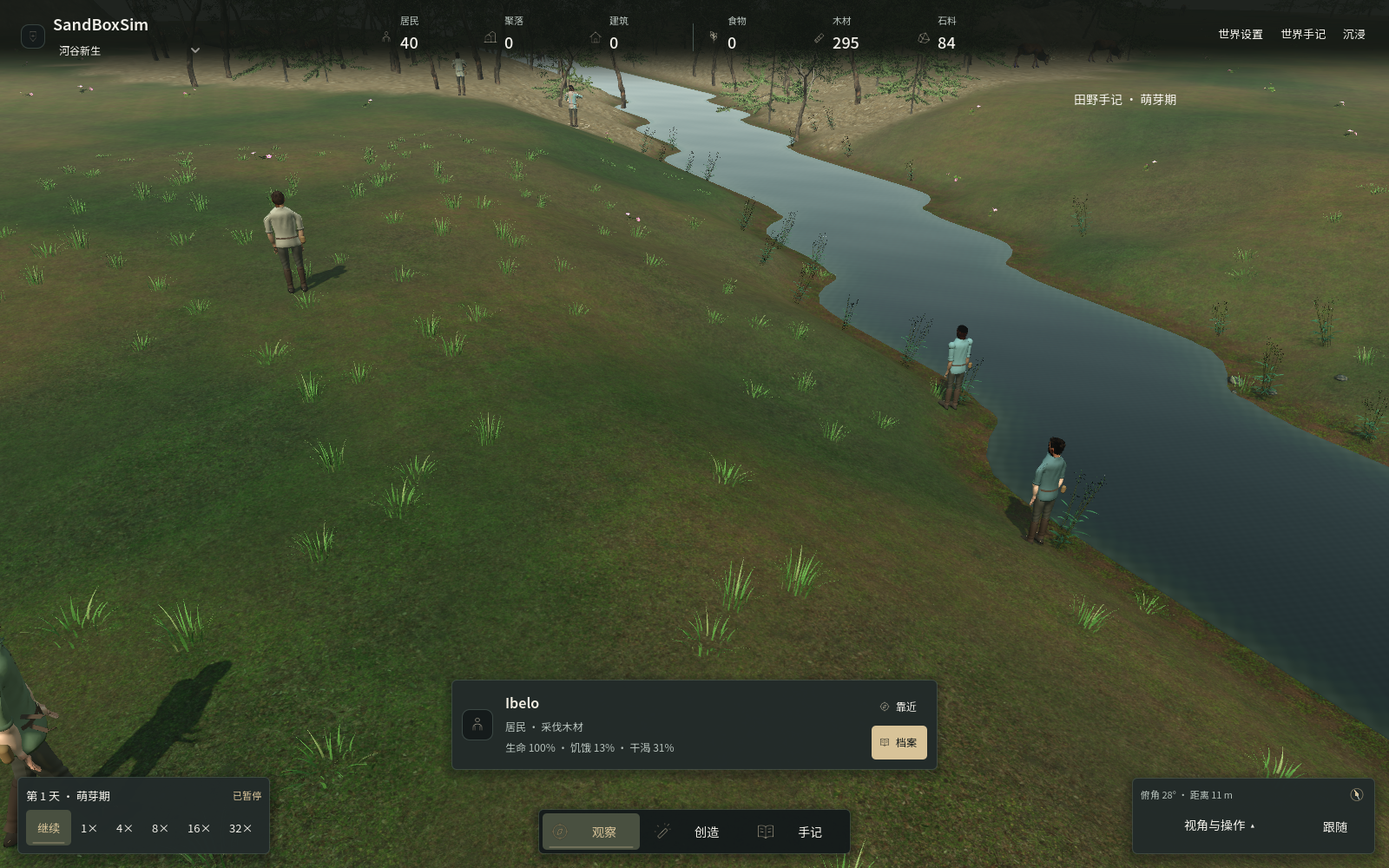
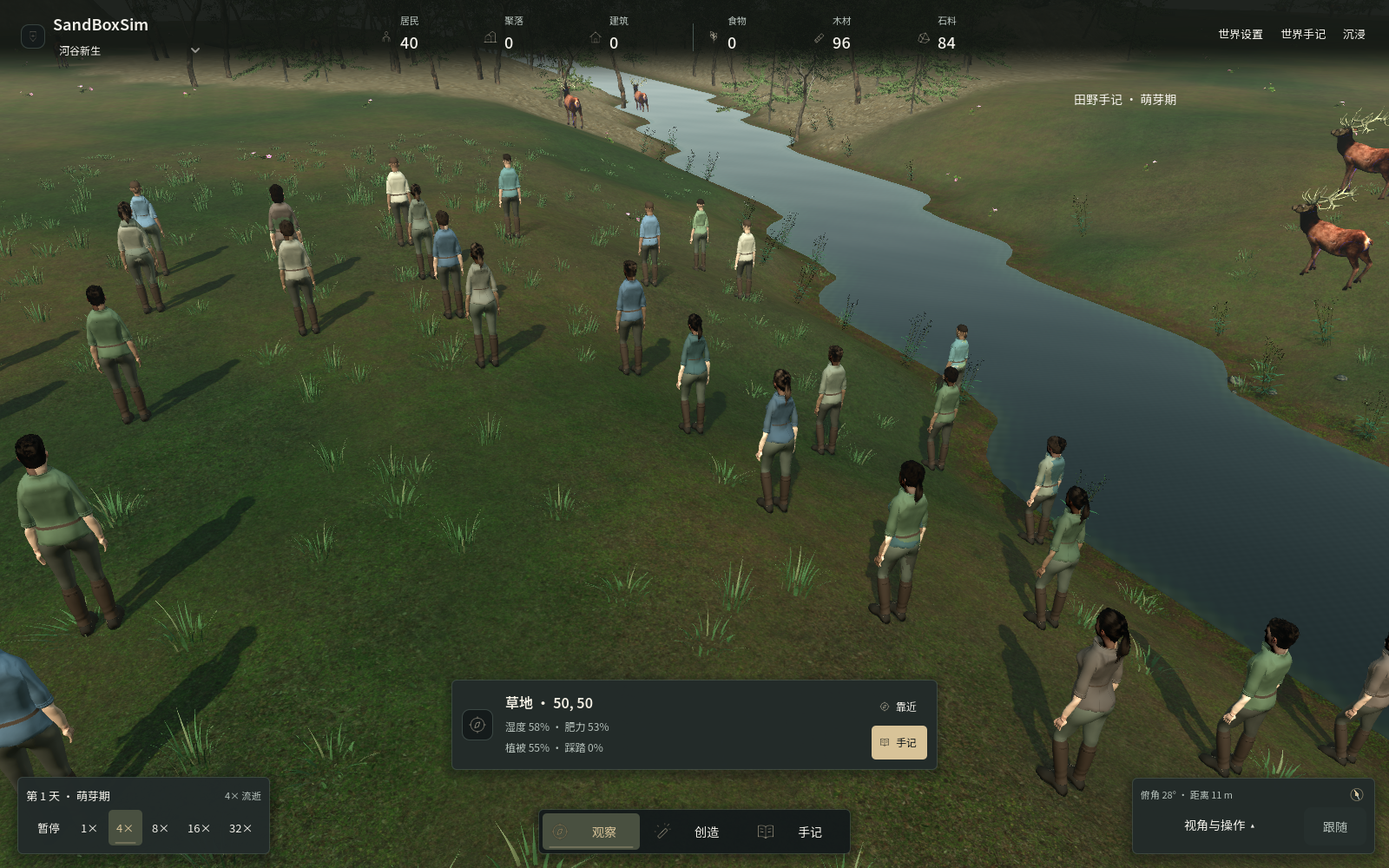
Improve understory modeling and bounded actor vegetation contacts

diff --git a/src/SandBoxSim.Godot/WorldView3D.cs b/src/SandBoxSim.Godot/WorldView3D.cs
@@ -354,6 +354,8 @@ public partial class WorldView3D : MapView
         CancelPointerGesture();
         _pickMeshes.Clear();_brushTile=new(-1,-1);_pendingTerrain=_pendingNature=_pendingBuildings=false;
         _world = Game.Sim; _follow = -1; Clear(_terrainRoot); Clear(_props); Clear(_actors);
+        _vegetationContactClock=0;_vegetationContactCount=0;Array.Clear(_vegetationContacts);
+        _models.BindMeadowContacts(_vegetationContacts,0);
         _flowerBatches.Clear();
         _observerPaths = new SandBoxSim.Core.Pathing.AStarPathfinder(Game.Sim.World);
         _observedRoute = new Int2[Game.Sim.World.Tiles.Length]; _density = new int[Game.Sim.World.Tiles.Length];
@@ -448,7 +450,7 @@ public partial class WorldView3D : MapView
         var quality=new Dictionary<string,object> { ["worldPresentationEnabled"]=WorldPresentationEnabled,["shadowMode"]=_sunlight.DirectionalShadowMode.ToString(),
             ["shadowDistance"]=_sunlight.DirectionalShadowMaxDistance,["shadowBias"]=_sunlight.ShadowBias,
             ["shadowNormalBias"]=_sunlight.ShadowNormalBias,["msaa"]=_viewport.Msaa3D.ToString(),
-            ["landscapeSurface"]="coverage-mosaic-v6",["habitatDetail"]="stratified-meadow-v10",["vegetationSurface"]="engine-faced-v2",
+            ["landscapeSurface"]="coverage-mosaic-v6",["habitatDetail"]="responsive-understory-v12",["vegetationSurface"]="engine-faced-v2",
             ["architecture"]="inset-joinery-v13",["garmentMaterial"]="quiet-linen-v17",["upperArmFlex"]="stable-contour-v3",["shoulderSkin"]="reference-figure-v25",["shoulderMotion"]="source-clavicle-v11",["motionReference"]="cmu-143-30-v1",["shoulderSurface"]="authored-bind-surface-v3",["forearmSkin"]="continuous-elbow-v9",["sleeveFairing"]="rest-detail-v2",["workPose"]="raised-hammer-v1",["reachMotion"]="palm-trajectory-v2",["interface"]="resident-framing-memory-v28",["wildFlora"]="arched-bramble-v1",["fontProfile"]="noto-packaged-v1",["interfaceVisible"]=Game.InterfaceVisible,
             ["animalPresentation"]="articulated-paws-v12",["residentSurface"]="linear-skin-v9",["workEffort"]="arc-recovery-v4",["toolMotion"]="constraint-feedback-v4",["bodySupport"]="planted-sagittal-v1",["facialTiming"]="rested-phrase-blink-v2",["handSurface"]="anatomical-regions-v1",["handlingMotion"]="wholebody-motion-v7",["toolGeometry"]="forged-heads-v2",["cargoGeometry"]="bound-timber-v2",["equipmentAttachment"]="surface-holster-v2",["socialMotion"]="spatial-gesture-v6",["waterSurface"]="constrained-bank-v6",["wristContour"]="continuous-source-v2",
             ["hairline"]="framed-source-root-v2",["garmentFit"]="continuous-drape-v31",["reedPanicle"]="connected-axis-v1",["bodyPresentation"]="continuous-drape-v29",["bodyFrame"]="reference-contour-physique-v31",["neckContour"]="relaxed-neckline-v5",["faceContour"]="balanced-adult-v3",["forearmProfile"]="curvature-flow-v9",["residentLocomotion"]="ankle-offset-v4",["armSwing"]="elliptic-countermotion-v4",["motionStyle"]="spatial-power-flow-v2",["limbCoordination"]="hinge-carry-v4" };
@@ -496,7 +498,7 @@ public partial class WorldView3D : MapView
         }
         finally {world.Tiles[index]=original;CheckTerrain();}
         if(StateHash.ComputeDigest(Game.Sim)!=digest)throw new InvalidOperationException("Ground presentation validation changed simulation");
-        ValidateMeadowPresentation();
+        ValidateMeadowPresentation();ValidateVegetationContacts();
         ValidateLogicalShoreline();
         GD.Print("GROUND_PRESENTATION_PASS: texture-only overlays, byte-precision wear and unchanged simulation");
     }
@@ -728,7 +730,7 @@ public partial class WorldView3D : MapView
                     ferns.Add(RootedPlant(new(px,0,pz),Vector3.One*scale,h%19+fern));
                 }
             int meadowMask=MeadowCandidateMask(tile,x,y,h);
-            for(int tuft=0;tuft<2;tuft++)
+            for(int tuft=0;tuft<MeadowCandidateCount;tuft++)
             {
                 if((meadowMask&(1<<tuft))==0)continue;
                 uint sample=MeadowSample(h,tuft);
@@ -736,7 +738,7 @@ public partial class WorldView3D : MapView
                 float px=p.X+((sample>>8)&255)/255f*1.60f-.80f;
                 float pz=p.Z+((sample>>16)&255)/255f*1.60f-.80f;
                 float variation=.62f+patch*.48f+((sample>>24)&255)/255f*.30f;
-                var clumpScale=tuft==0?new Vector3(size*1.12f,variation*.65f,size*1.12f):new Vector3(size*.90f,variation*1.10f,size*.90f);
+                var clumpScale=tuft%2==0?new Vector3(size*1.12f,variation*.65f,size*1.12f):new Vector3(size*.90f,variation*1.10f,size*.90f);
                 if(TryMeadowPlacement(new(px,0,pz),clumpScale,(sample%1000)*.006283185f,out var placement))grass.Add(placement);
             }
             if (tile.BuildingId==0&&tile.Terrain == TerrainKind.Forest && tile.Vegetation > .12f && tile.Fire != FireState.Burnt && h % 5 == 0)
@@ -827,7 +829,7 @@ public partial class WorldView3D : MapView
     private void AnimateActors(float delta)
     {
         using var profile=RenderProfile.Measure("AnimateActors");
-        var sim = Game.Sim; _poseFrame++;
+        var sim = Game.Sim; _poseFrame++;BeginVegetationContacts(delta);
         // Copy six planes once; enumerating the native array per resident multiplies interop calls.
         var frustum=_camera.GetFrustum().ToArray();
         var cameraPosition=_camera.Position;
@@ -839,6 +841,7 @@ public partial class WorldView3D : MapView
             bool moving = sim.Agents.PhaseOf(slot) == ActionPhase.Moving;
             var rendered=GroundedActorPosition(current,target,delta,10,Game.VisualPaused);
             if(direction.LengthSquared()>.000001f)node.Position=rendered;
+            OfferVegetationContact(rendered,.55f);
             bool visible=ActorInView(rendered+Vector3.Up*.9f,frustum);
             if(node.Visible!=visible)node.Visible=visible;
             _poseSchedule.Accumulate(pair.Key,delta,visible&&!Game.VisualPaused);
@@ -878,12 +881,14 @@ public partial class WorldView3D : MapView
         foreach (var pair in _deer)
         { int slot = (int)(pair.Key & uint.MaxValue); if (sim.Wildlife.IsAlive(slot)) { MoveAnimal(pair.Value, PositionAt(sim.Wildlife.XOf(slot), sim.Wildlife.YOf(slot)), delta,sim.Wildlife.ActionOf(slot)==ActionKind.Eat); } }
         foreach (var wolf in sim.Predators.Wolves) if (_wolves.TryGetValue(wolf.Id, out Node3D? node)) { MoveAnimal(node, PositionAt(wolf.X, wolf.Y), delta); }
+        EndVegetationContacts();
     }
     private void MoveAnimal(Node3D node, Vector3 target, float delta,bool grazing=false)
     {
-        if(Game.VisualPaused)return;
+        if(Game.VisualPaused){OfferVegetationContact(node.Position,.75f);return;}
         Vector3 direction = target - node.Position;
         var location=GroundedActorPosition(node.Position,target,delta,8,Game.VisualPaused);node.Position=location;
+        OfferVegetationContact(location,node is AnimalRig?.75f:.65f);
         if (direction.LengthSquared() > .02f) { node.Rotation = new Vector3(0, Mathf.LerpAngle(node.Rotation.Y,MathF.Atan2(direction.X, direction.Z) + MathF.PI,1-MathF.Exp(-delta*9)), 0); }
         if(_camera.Position.DistanceSquaredTo(node.Position)<24*24)
         {

diff --git a/src/SandBoxSim.Godot/WorldView3D.Meadow.cs b/src/SandBoxSim.Godot/WorldView3D.Meadow.cs
@@ -8,10 +8,11 @@ namespace SandBoxSim.Client;
 
 public partial class WorldView3D
 {
+    private const int MeadowCandidateCount=4;
     private readonly List<(MultiMeshInstance3D Batch,List<Transform3D> Roots)> _meadowBatches=new();
     private readonly Dictionary<MultiMeshInstance3D,Transform3D[]> _meadowSeeds=new();
     private Vector3[]? _meadowRootProbes;
-    private readonly Dictionary<(Vector3 Point,Vector3 Scale,float Yaw),(int Revision,bool Valid,Transform3D Placement)> _meadowPlacements=new();
+    private readonly Dictionary<(Vector3 Point,Vector3 Scale,float Yaw),(int Revision,int Blockers,bool Valid,Transform3D Placement)> _meadowPlacements=new();
     private int[] _meadowGroundRevisions=Array.Empty<int>();
     private long _meadowPlacementEvaluations;
     private void ResetMeadowPlacements()
@@ -39,7 +40,7 @@ public partial class WorldView3D
         float patch=TerrainNoise(x*.12f,y*.12f,Game.Sim.World.Seed);
         float threshold=.26f+patch*.48f+tile.Vegetation*.10f;
         int mask=0;
-        for(int candidate=0;candidate<2;candidate++)
+        for(int candidate=0;candidate<MeadowCandidateCount;candidate++)
             if((MeadowSample(hash,candidate)&255)/255f<=threshold)mask|=1<<candidate;
         return mask;
     }
@@ -56,25 +57,36 @@ public partial class WorldView3D
     {
         var world=Game.Sim.World;
         int index=Math.Clamp((int)MathF.Floor(point.Z*.5f),0,world.Height-1)*world.Width+Math.Clamp((int)MathF.Floor(point.X*.5f),0,world.Width-1);
-        int revision=_meadowGroundRevisions[index];var key=(point,scale,yaw);
-        if(_meadowPlacements.TryGetValue(key,out var cached)&&cached.Revision==revision)
+        int revision=_meadowGroundRevisions[index],blockers=0,bit=0;
+        int tx=index%world.Width,ty=index/world.Width;
+        for(int dz=-1;dz<=1;dz++)for(int dx=-1;dx<=1;dx++,bit++)
+            if(!MeadowHabitat(tx+dx,ty+dz))blockers|=1<<bit;
+        var key=(point,scale,yaw);
+        if(_meadowPlacements.TryGetValue(key,out var cached)&&cached.Revision==revision&&cached.Blockers==blockers)
         {placement=cached.Placement;return cached.Valid;}
         _meadowPlacementEvaluations++;
         placement=Transform3D.Identity;
         if(GroundNormal(point).Y<MathF.Cos(.35f)||GroundHeight(point.X,point.Z)<.03f)
-        {_meadowPlacements[key]=(revision,false,placement);return false;}
+        {_meadowPlacements[key]=(revision,blockers,false,placement);return false;}
         var rooted=RootedPlant(point,scale,yaw);
         // The terrain can curve within the footprint even on a gentle slope.
         // Reject that patch rather than leaving peripheral roots suspended.
         bool valid=MeadowRootsFit(rooted);
         if(valid)placement=rooted;
-        _meadowPlacements[key]=(revision,valid,placement);return valid;
+        _meadowPlacements[key]=(revision,blockers,valid,placement);return valid;
+    }
+    private bool MeadowHabitat(int x,int y)
+    {
+        var world=Game.Sim.World;if(!world.IsInBounds(x,y))return false;
+        var tile=world.TileAt(x,y);
+        return tile.BuildingId==0&&tile.Fire!=FireState.Burnt&&tile.Terrain is TerrainKind.Grass or TerrainKind.Forest;
     }
     private bool MeadowRootsFit(Transform3D rooted)
     {
         foreach(var probe in MeadowRootProbes())
         {
             var root=rooted*probe;float gap=root.Y-GroundHeight(root.X,root.Z);
+            if(!MeadowHabitat((int)MathF.Floor(root.X*.5f),(int)MathF.Floor(root.Z*.5f)))return false;
             if(gap>.012f||gap<-.035f)return false;
         }
         return true;
@@ -119,6 +131,18 @@ public partial class WorldView3D
             InvalidateMeadowPlacements(new HashSet<int>{tile});
             if(TryMeadowPlacement(key.Point,key.Scale,key.Yaw,out var rebuilt)!=before||rebuilt!=originalPlacement||_meadowPlacementEvaluations!=evaluations+1)
                 throw new InvalidOperationException("Meadow support invalidation reuses stale geometry");
+            var old=Game.Sim.World.Tiles[tile];string unchanged=StateHash.ComputeDigest(Game.Sim);
+            try
+            {
+                Game.Sim.World.Tiles[tile].BuildingId=int.MaxValue;
+                long prior=_meadowPlacementEvaluations;
+                if(TryMeadowPlacement(key.Point,key.Scale,key.Yaw,out _)||_meadowPlacementEvaluations!=prior+1)
+                    throw new InvalidOperationException("Occupied meadow footprint reuses its cached placement");
+            }
+            finally{Game.Sim.World.Tiles[tile]=old;}
+            if(TryMeadowPlacement(key.Point,key.Scale,key.Yaw,out var restored)!=before||restored!=originalPlacement
+                ||StateHash.ComputeDigest(Game.Sim)!=unchanged)
+                throw new InvalidOperationException("Meadow occupancy recovery changes support or simulation");
             GD.Print("MEADOW_PLACEMENT_CACHE_PASS: unchanged accepted/rejected placement reuse, neighbourhood invalidation and identical rebuilt support");
         }
         int roots=0;
@@ -146,7 +170,7 @@ public partial class WorldView3D
             var tile=world.Tiles[index];if(tile.Terrain!=TerrainKind.Grass||tile.BuildingId!=0||tile.Fire==FireState.Burnt)continue;
             int x=index%world.Width,y=index/world.Width;uint hash=unchecked((uint)(x*73856093^y*19349663));
             float patch=TerrainNoise(x*.12f,y*.12f,world.Seed);
-            for(int candidate=0;candidate<2;candidate++)
+            for(int candidate=0;candidate<MeadowCandidateCount;candidate++)
             {
                 float boundary=((MeadowSample(hash,candidate)&255)/255f-.26f-patch*.48f)/.10f;
                 if(boundary>.26f&&boundary<.89f){selected=index;lower=boundary-.01f;upper=boundary+.01f;break;}

diff --git a/src/SandBoxSim.Godot/NatureModels.MeadowTurf.cs b/src/SandBoxSim.Godot/NatureModels.MeadowTurf.cs
@@ -17,8 +17,10 @@ internal sealed partial class NatureModels
             var forward=new Vector3(MathF.Cos(angle),0,MathF.Sin(angle));
             var across=new Vector3(-forward.Z,0,forward.X);
             var root=forward*radius;
-            float height=.18f+(blade*7%17)/16f*.18f;
+            bool broad=blade%6==0;
+            float height=broad?.11f+(blade%4)*.025f:.18f+(blade*7%17)/16f*.18f;
             float bend=.045f+(blade*11%13)/12f*.14f,width=.006f+(blade%5)*.002f;
+            if(broad){width*=2.2f;bend*=.65f;}
             Vector3 Point(int row,int edge)
             {
                 float t=row/4f;
@@ -33,7 +35,7 @@ internal sealed partial class NatureModels
                 if(normal.Dot(-forward)<0){(br,cr)=(cr,br);(be,ce)=(ce,be);normal=-normal;}
                 normal=normal.Normalized();
                 float dry=blade%7==0?1f:0f;
-                var pigment=new Color(.115f,.205f,.061f).Lerp(new(.235f,.215f,.11f),dry*.65f);
+                var pigment=new Color(.090f,.145f,.065f).Lerp(new(.205f,.185f,.11f),dry*.65f);
                 foreach(var v in new[]{(ar,ae),(br,be),(cr,ce)})
                 {
                     float t=v.Item1/4f;
@@ -47,6 +49,7 @@ internal sealed partial class NatureModels
         tool.Index();var mesh=tool.Commit();
         var shader=new Shader {Code=@"shader_type spatial;render_mode cull_disabled;
 uniform bool soil_bound=false;uniform sampler2D soil:filter_nearest,repeat_disable;uniform vec2 map_size=vec2(1.0);
+uniform vec4 contact_actors[8];uniform int contact_count=0;
 varying float blade_t;
 void vertex(){
     vec3 root=(MODEL_MATRIX*vec4(0,0,0,1)).xyz;blade_t=UV.y;
@@ -54,6 +57,24 @@ void vertex(){
     float wear=soil_bound?texture(soil,clamp(root.xz*.5/map_size,vec2(0),vec2(1))).g:0.0;
     float scale=max(.025,fade*(1.0-wear*.85));
     vec2 bend=vec2(sin(TIME*.8+root.x*.21+root.z*.13)*.020,cos(TIME*.65+root.z*.19)*.010);
+    vec2 push=vec2(0);float pressure=0.0;
+    for(int i=0;i<8;i++){
+        if(i>=contact_count)break;
+        vec2 away=root.xz-contact_actors[i].xz;float d2=dot(away,away);
+        if(d2>=contact_actors[i].w*contact_actors[i].w||abs(root.y-contact_actors[i].y)>=.90)continue;
+        float d=sqrt(d2);
+        float weight=(1.0-smoothstep(0.0,contact_actors[i].w,d))
+            *(1.0-smoothstep(.25,.90,abs(root.y-contact_actors[i].y)));
+        pressure=max(pressure,weight);
+        // Regularization passes continuously through a contact centre; a fixed
+        // fallback direction would flip a pressed leaf as an actor crosses it.
+        push+=away*inversesqrt(d2+.0016)*weight;
+    }
+    float push_length=length(push);if(push_length>1.0)push/=push_length;
+    // Convert a world-space push through the actual instance yaw/scale. Roots
+    // stay pinned; this is visual leaf bending, not navigation or collision.
+    if(pressure>0.0)bend+=(inverse(mat3(MODEL_MATRIX))*vec3(push.x,0,push.y)*.16).xz;
+    scale*=1.0-pressure*.65;
     VERTEX.xz+=bend*blade_t*blade_t*fade;VERTEX.y*=scale;
     vec2 derivative=2.0*blade_t*fade/.30*bend;
     NORMAL=normalize(vec3(NORMAL.x,(NORMAL.y-dot(derivative,NORMAL.xz))/scale,NORMAL.z));
@@ -80,6 +101,18 @@ void fragment(){
     {
         MeadowTurf();_meadowTurfMaterial!.SetShaderParameter("soil_bound",true);
         _meadowTurfMaterial.SetShaderParameter("soil",soil);_meadowTurfMaterial.SetShaderParameter("map_size",size);
+    }
+    internal void BindMeadowContacts(Vector4[] actors,int count)
+    {
+        MeadowTurf();_meadowTurfMaterial!.SetShaderParameter("contact_actors",actors);
+        _meadowTurfMaterial.SetShaderParameter("contact_count",count);
+    }
+    internal void ValidateMeadowContacts(Vector4[] actors,int count)
+    {
+        var uploaded=_meadowTurfMaterial!.GetShaderParameter("contact_actors").AsVector4Array();
+        if(_meadowTurfMaterial.GetShaderParameter("contact_count").AsInt32()!=count||uploaded.Length!=8)
+            throw new InvalidOperationException("Invalid meadow contact uniform budget");
+        for(int i=0;i<8;i++)if(uploaded[i]!=actors[i])throw new InvalidOperationException("Stale meadow actor uniform");
     }
     private void ValidateMeadowTurf()
     {

diff --git a/src/SandBoxSim.Godot/WorldView3D.VegetationContacts.cs b/src/SandBoxSim.Godot/WorldView3D.VegetationContacts.cs
@@ -1,0 +1,70 @@
+using System;
+using Godot;
+using SandBoxSim.Core;
+
+namespace SandBoxSim.Client;
+
+public partial class WorldView3D
+{
+    private readonly Vector4[] _vegetationContacts=new Vector4[8];
+    private readonly float[] _vegetationDistances=new float[8];
+    private int _vegetationContactCount;
+    private float _vegetationContactClock;
+    private bool _sampleVegetationContacts;
+
+    private void BeginVegetationContacts(float delta)
+    {
+        _sampleVegetationContacts=false;
+        _vegetationContactClock-=delta;
+        if(_vegetationContactClock>0)return;
+        _vegetationContactClock=1f/60;_sampleVegetationContacts=true;_vegetationContactCount=0;
+        Array.Clear(_vegetationContacts);Array.Fill(_vegetationDistances,float.PositiveInfinity);
+    }
+    private void OfferVegetationContact(Vector3 point,float radius)
+    {
+        if(!_sampleVegetationContacts||!point.IsFinite()||radius<=0)return;
+        float distance=point.DistanceSquaredTo(_camera.Position);
+        if(distance>34*34)return;
+        int index=0;
+        while(index<_vegetationContactCount&&distance>=_vegetationDistances[index])index++;
+        if(index==8)return;
+        for(int i=Math.Min(_vegetationContactCount,7);i>index;i--)
+        {_vegetationContacts[i]=_vegetationContacts[i-1];_vegetationDistances[i]=_vegetationDistances[i-1];}
+        _vegetationContacts[index]=new(point.X,point.Y,point.Z,radius);_vegetationDistances[index]=distance;
+        _vegetationContactCount=Math.Min(8,_vegetationContactCount+1);
+    }
+    private void EndVegetationContacts()
+    {
+        if(_sampleVegetationContacts)
+            _models.BindMeadowContacts(_vegetationContacts,_vegetationContactCount);
+    }
+    private void ValidateVegetationContacts()
+    {
+        var saved=(Vector4[])_vegetationContacts.Clone();var distances=(float[])_vegetationDistances.Clone();
+        int count=_vegetationContactCount;float clock=_vegetationContactClock;bool sampling=_sampleVegetationContacts;
+        string digest=StateHash.ComputeDigest(Game.Sim);
+        try
+        {
+            _sampleVegetationContacts=true;_vegetationContactCount=0;Array.Fill(_vegetationDistances,float.PositiveInfinity);
+            for(int i=11;i>=1;i--)OfferVegetationContact(_camera.Position+new Vector3(i,0,0),.55f);
+            OfferVegetationContact(new(float.NaN,0,0),.55f);
+            if(_vegetationContactCount!=8)throw new InvalidOperationException("Vegetation contact budget lost");
+            for(int i=0;i<8;i++)
+                if(MathF.Abs(_vegetationDistances[i]-(i+1)*(i+1))>.001f)
+                    throw new InvalidOperationException("Vegetation contacts do not retain nearest actors");
+            EndVegetationContacts();_models.ValidateMeadowContacts(_vegetationContacts,8);
+            _vegetationContactCount=0;Array.Clear(_vegetationContacts);EndVegetationContacts();
+            _models.ValidateMeadowContacts(_vegetationContacts,0);
+            _sampleVegetationContacts=false;OfferVegetationContact(_camera.Position,.8f);
+            if(_vegetationContactCount!=0)throw new InvalidOperationException("Unsampled/paused vegetation state advances");
+        }
+        finally
+        {
+            Array.Copy(saved,_vegetationContacts,8);Array.Copy(distances,_vegetationDistances,8);
+            _vegetationContactCount=count;_vegetationContactClock=clock;_sampleVegetationContacts=sampling;
+            _models.BindMeadowContacts(_vegetationContacts,count);
+        }
+        if(StateHash.ComputeDigest(Game.Sim)!=digest)throw new InvalidOperationException("Vegetation contacts change simulation");
+        GD.Print("VEGETATION_CONTACT_PASS: nearest-eight budget, finite inputs, shader upload, removal, unsampled freeze and unchanged simulation");
+    }
+}

diff --git a/docs/guides/terrain-and-traces.md b/docs/guides/terrain-and-traces.md
@@ -48,7 +48,7 @@
 
 相邻土地都出现实际踩踏时，地表显示连接的窄径与柔和边缘；反复使用逐渐加深，停止使用随原有压实恢复消退。单次经过不会立即形成路网。小地图标出压实区域，土地观察解释当前足迹状态。小径是现有模拟压实的可见表现，不增加正式道路、通行加速或建筑容量。
 
-下图来自 80 位初始居民自由运行 14 日后的实际世界，镜头聚焦当时压实最多的格子（19%）；没有预画路线或添加演示脚印。
+下图来自 80 位初始居民自由运行 14 日后的实际世界，镜头聚焦当时压实最多的格子（22%）；没有预画路线或添加演示脚印。
 
 ![居民实际活动累积的小径](../images/living-paths.png)
 
@@ -58,7 +58,7 @@
 
 草地和林地上的草丛使用项目构造的折面弯叶，与土地的植被状态、火烧状态和建筑占用相对应，原扫描草来源仍保留。压实越高，草叶越伏低；该变化读取共享压实贴图，根部变换只检查受影响地块邻域，不因每次脚步重建全部草丛。微风摆动是纯视觉效果，不消耗模拟随机数。
 
-草丛按 24 米区域批量绘制；距离相机 24–32 米逐渐缩退，34 米以后整批裁剪。每丛 24 片弯叶、336 个三角形，每个适宜地块最多两个稳定候选，分别采用宽矮与窄高比例；实际落点受植被量、坡度和外围根接地约束，草叶关闭投影。河岸芦苇在 42 米裁剪，湿润林下蕨类在 38 米裁剪。它们是稀疏地表细节，完整植被状态仍以模拟数据为准。
+草丛按 24 米区域批量绘制；距离相机 24–32 米逐渐缩退，34 米以后整批裁剪。每丛 20 片较高弯叶与 4 片矮阔叶，共 336 个三角形，每个适宜地块最多四个稳定候选，交错采用宽矮与窄高比例；实际落点受植被量、坡度和外围根接地约束，草叶关闭投影。河岸芦苇在 42 米裁剪，湿润林下蕨类在 38 米裁剪。它们是稀疏地表细节，完整植被状态仍以模拟数据为准。
 
 普通河岸芦苇在原有湿度、地类和稳定抽样筛选后，沿相邻水域方向最多尝试四个落点。每个落点重新采样实际显示地面：相对水面的高度需在 −0.06 至 0.58 米之间，地面法线的向上分量不低于 0.80，避免仅因邻接水格就在高岸、陡坡长出芦苇。根部继续贴地，保持既有分块与 42 米裁剪。特殊地点的苇泽配置单独维护；这些阈值是表现层规则，不增加生态、河流或寻路模拟。
 
@@ -66,7 +66,7 @@
 
 世界方向光深度偏移为 2.4，用于抑制连续坡地自遮挡条纹；保留四级联、原来的动态阴影距离与法线偏移。视觉评测同时记录这些实际参数，改动后应重新建立画质与耗时基线。
 
-视觉评测记录 `landscapeSurface=coverage-mosaic-v6`、`habitatDetail=stratified-meadow-v10` 和 `waterSurface=continuous-bank-v5`。覆盖率、草丛比例与水陆支撑已改变显示内容，比较性能时应重新建立同场景基线，不能把不同画面负载直接当成内核加速。
+视觉评测记录 `landscapeSurface=coverage-mosaic-v6`、`habitatDetail=responsive-understory-v12` 和 `waterSurface=constrained-bank-v6`。覆盖率、草丛比例与水陆支撑已改变显示内容，比较性能时应重新建立同场景基线，不能把不同画面负载直接当成内核加速。
 
 ![当前河岸、草丛与居民近景](../images/terrain-closeup.png)
 
@@ -77,3 +77,24 @@
 ---
 
 [文档导航](../README.md) · [项目首页](../../README.md)
+
+## 场景与角色的接触
+
+当前世界的模拟格宽 2 米，寻路使用内核的八邻接格子 A*，地形显示在这些格子之间形成细分三角曲面。角色位置、四足／鞋底接地、鼠标拾取和河床深度读取同一显示地面；连续地形不等于连续导航网格，也不会自动将每个装饰模型变成障碍物。
+
+| 场景部分 | 当前数据与交互 |
+|---|---|
+| 河岸、坡地 | 共享显示三角面；脚底、地面拾取与水面深度共用高度。近岸失去支撑或跨过未知逻辑步时重新同步到真实格中心 |
+| 草丛、林下层 | 稳定斑块采样，短阔叶与长弯叶交错；实际外围根部检查地形高度及地类、建筑、火烧占用 |
+| 人物、鹿狼经过 | 近景草叶读取实际显示位置，向角色外侧弯折并压低；根部保持原位，离开后随空间影响减弱恢复 |
+| 长期土地变化 | `FootTraffic` 由实际内核行走／作业接触累积并缓慢恢复，继续影响土地、资源再生及植被；即时弯折不写回这些值 |
+| 建筑 | 建筑占地来自模拟；地基裙边采样地面。草丛所属格与相邻实际根部均排除建筑／道路等不适宜占地 |
+| 树、岩石、灌木 | 现有显示网格与格内稳定落点；资源量与交互目标仍由内核格子／实体定义，不提供逐三角面碰撞或全部装饰物的连续避让 |
+
+`responsive-understory-v12` 的草叶接触场在现有角色更新遍历中收集位置，最多保留相机 34 米内最近的八个角色，每约 1/60 秒上传一次共享材质。人物影响半径为 0.55 米、动物为 0.75 米；高差超过 0.9 米不产生影响，减少跨层误触。顶端世界偏移限于 0.16 米并换算到草丛的实际旋转／缩放空间，近距离最多压低约 65%，根部权重为零。远处及影响半径之外先用距离平方排除，避免额外求根与矩阵变换。沿用原有 24–32 米缩退、34 米分块裁剪与无投影；这是有限预算的视觉接触，不是草叶刚体碰撞或软体物理。
+
+暂停时角色位置不推进，接触采样仍可随观察相机更新近处候选；换世界时先清空旧接触场。草叶微风继续沿用原着色器。建筑、地类和火烧条件以邻域九位占用掩码参与放置缓存身份，地面压实继续使用原地面版本；占用或地面变化后重新检查，不从旧缓存恢复穿入道路或建筑的草丛。
+
+回归检查覆盖实际草丛外围根接地、建筑占用后的缓存失效与恢复、最近八个接触的选择、材质位置上传、失效接触清除，以及观察前后的模拟摘要一致。运行包自检同时检查人物和动物接地、岸线通路、建筑地基、存档与界面操作；这些检查不构成所有模型碰撞的物理保证。
+
+实现划分参考 [Godot 的导航网格说明](https://docs.godotengine.org/en/stable/tutorials/navigation/navigation_using_navigationmeshes.html)，其中明确区分导航数据与视觉／物理几何；地表层次参考 [Epic 的地形材质分层说明](https://dev.epicgames.com/documentation/en-us/unreal-engine/landscape-quick-start-guide-in-unreal-engine)。项目继续采用自己的格子模拟、Godot 渲染和已有授权扫描材质，没有引入 Unreal 运行时或新增素材下载。

diff --git a/docs/development/benchmark.md b/docs/development/benchmark.md
@@ -287,3 +287,5 @@ Godot 自检包含协议拒绝测试、模型/握持几何和 UI 状态；Python
 `portrait.resident` 在 `person`／`person-hands` 中按十进制正整数的稳定身份选择当前世界中的存活居民，取值范围为 Int64 正数；不存在的身份返回运行失败。选择复用名录入口，不修改模拟。结果 `state.portrait.identity`／`child` 记录实际观察对象，校验器核对命令后的身份，拒绝选择未执行或被改写的记录。公开 `visual-female-portrait.json` 使用种子 839102、8 名居民、零模拟步进，观察身份 4294967299，并切换肩颈／全身构图。该入口是视觉回放控制，不增加玩家任务或 HTTP 动作。
 
 `motionStyle=spatial-power-flow-v2`、`armSwing=elliptic-countermotion-v4`、`workEffort=arc-recovery-v4` 标识成人动作风格的肩肘跟随、躯干侧摆、手势回收及作业相位分配。风格不改变模拟生产效率，但会改变姿态、图像和每帧计算；比较视觉／效率结果须冻结这些标记、完整源码、身体与工具、状态、镜头及冷／热缓存条件。`MOTION_STYLE_PASS` 是相同身体和能力条件下的实际轨迹回归，不是 RSI 或审美评分。
+
+`habitatDetail=responsive-understory-v12` 增加四候选的林下层、矮阔叶及最近八角色的草叶接触场，改变顶点着色负载与自然物放置缓存身份。`VEGETATION_CONTACT_PASS` 验证接触选择、上传、清除与模拟观察纯度；放置检查验证实际根部占用及缓存恢复。视觉／效率比较须冻结草丛数量、镜头、角色分布、源码与冷／热缓存条件，不能将植被负载变化解释为内核加速或 RSI 改进。

diff --git a/docs/images/README.md b/docs/images/README.md
@@ -145,3 +145,5 @@
 
 `resident-style-work.png`／GIF 与 `resident-style-walk.png`／GIF 来自 `visual-work-effort`／`visual-body-motion`，使用 `motionStyle=spatial-power-flow-v2`、`armSwing=elliptic-countermotion-v4`、`workEffort=arc-recovery-v4`。各取两次固定配置回放：PNG 为逻辑帧 180 的直接复制；GIF 为 120–297 每三帧采样的 60 个原生 1600×1000 帧，20 fps、三秒，只统一调色板，不插帧、重绘或缩放。固定 60 Hz、零模拟步进、零窗口恢复，来源与产物哈希核对后发布。其余专题保留各自采样版本。
 `resident-style-social.png`／GIF 来自当前 `visual-social`：上排为男女交谈，下排保留分享与进食，使用 `socialMotion=spatial-gesture-v6`。采样与上述动作演示一致：两次固定回放，逻辑帧 120–297 每三帧取样，1600×1000、60 个原生帧、20 fps、三秒；PNG 直接复制第 180 帧。当前步行、作业与交谈三组共六次回放，均核对来源、产物哈希、零窗口恢复和固定视觉步长。
+
+2026-11-05 的 `terrain-modern.png`／`terrain-closeup.png` 来自当前公开 `visual-landscape` 第 40／80 帧，`living-paths.png` 来自 `world-living-paths` 第 90 帧（80 名初始居民、预运行 14 日）。三张均为原生 1600×1000 直接复制，使用 `habitatDetail=responsive-understory-v12`，核对构建、源码、产物哈希、固定视觉步长和零窗口恢复；其他专题保留各自采样。近景图展示四候选混合草叶与实际人物、鹿狼；即时草叶弯折属于显示，长期小径仍来自真实模拟。

diff --git a/docs/development/models.md b/docs/development/models.md
@@ -982,3 +982,5 @@ $blender = '.tools/blender-4.5.14/editor/blender-4.5.14-windows-x64/blender.exe'
 [交谈风格演示](../images/resident-style-social.gif)与站立／步行／弯身、同工具作业演示均来自当前游戏。`SPATIAL_MOTION_STYLE_PASS` 另在同一身体上检查双手交谈轨迹差异、相同相位的回收路径差异、20 毫米空间边界和周期端点连续性，防止只有播放速度不同。原有手腕限位、左右手、握持、暂停、动作切换与同等能力节奏检查继续执行。
 
 空间与接续设计另参考[饮水动作中的关节及末端运动研究](https://pubmed.ncbi.nlm.nih.gov/38144196/)和[手臂运动平滑性的实验研究](https://elifesciences.org/articles/68013)。饮水研究观察到的差异随动作阶段变化，女性组的回手阶段并非更慢；项目采用任务相关的协调与有界美术弧线，未导入论文数据，也没有用同一速度倍率代表全部性别差异。
+
+场景地表使用 `habitatDetail=responsive-understory-v12`：共享草丛网格包含 20 片较高弯叶与 4 片矮阔叶，336 个三角形；每个适宜格最多四个候选，外围根部核对相邻地类与占用。人物与鹿狼的近景草叶接触场、占用缓存失效、接地和寻路的职责边界见[地形与场景接触](../guides/terrain-and-traces.md)。即时草叶反应是只读显示；长期压实继续来自内核。

diff --git a/README.md b/README.md
@@ -120,3 +120,5 @@ SandBoxSim/
 游戏资源位于 `src/SandBoxSim.Godot/assets/`：`models/` 保存衍生网格与对应贴图，`materials/scanned/` 保存扫描表面及来源清单，`textures/` 保存仍需保留的材质与地图图集。旧插画、配方目录已移除。开发期间的临时截图放在 `runs/screenshots/`；清理时保留正式文档配图、游戏素材和存档。详细约定见 [文件管理](docs/development/repository-layout.md)。
 
 贡献约定见 [CONTRIBUTING.md](CONTRIBUTING.md)，代码授权见 [LICENSE](LICENSE)。
+
+地表包含交错的矮阔叶与长弯叶草丛，附近人物和鹿狼会使草叶弯折、压低；实际草根检查相邻道路、建筑和火烧占用。长期小径仍由真实行走／作业压实缓慢形成。接触范围、性能预算与场景／寻路边界见[地形与场景接触](docs/guides/terrain-and-traces.md)。
